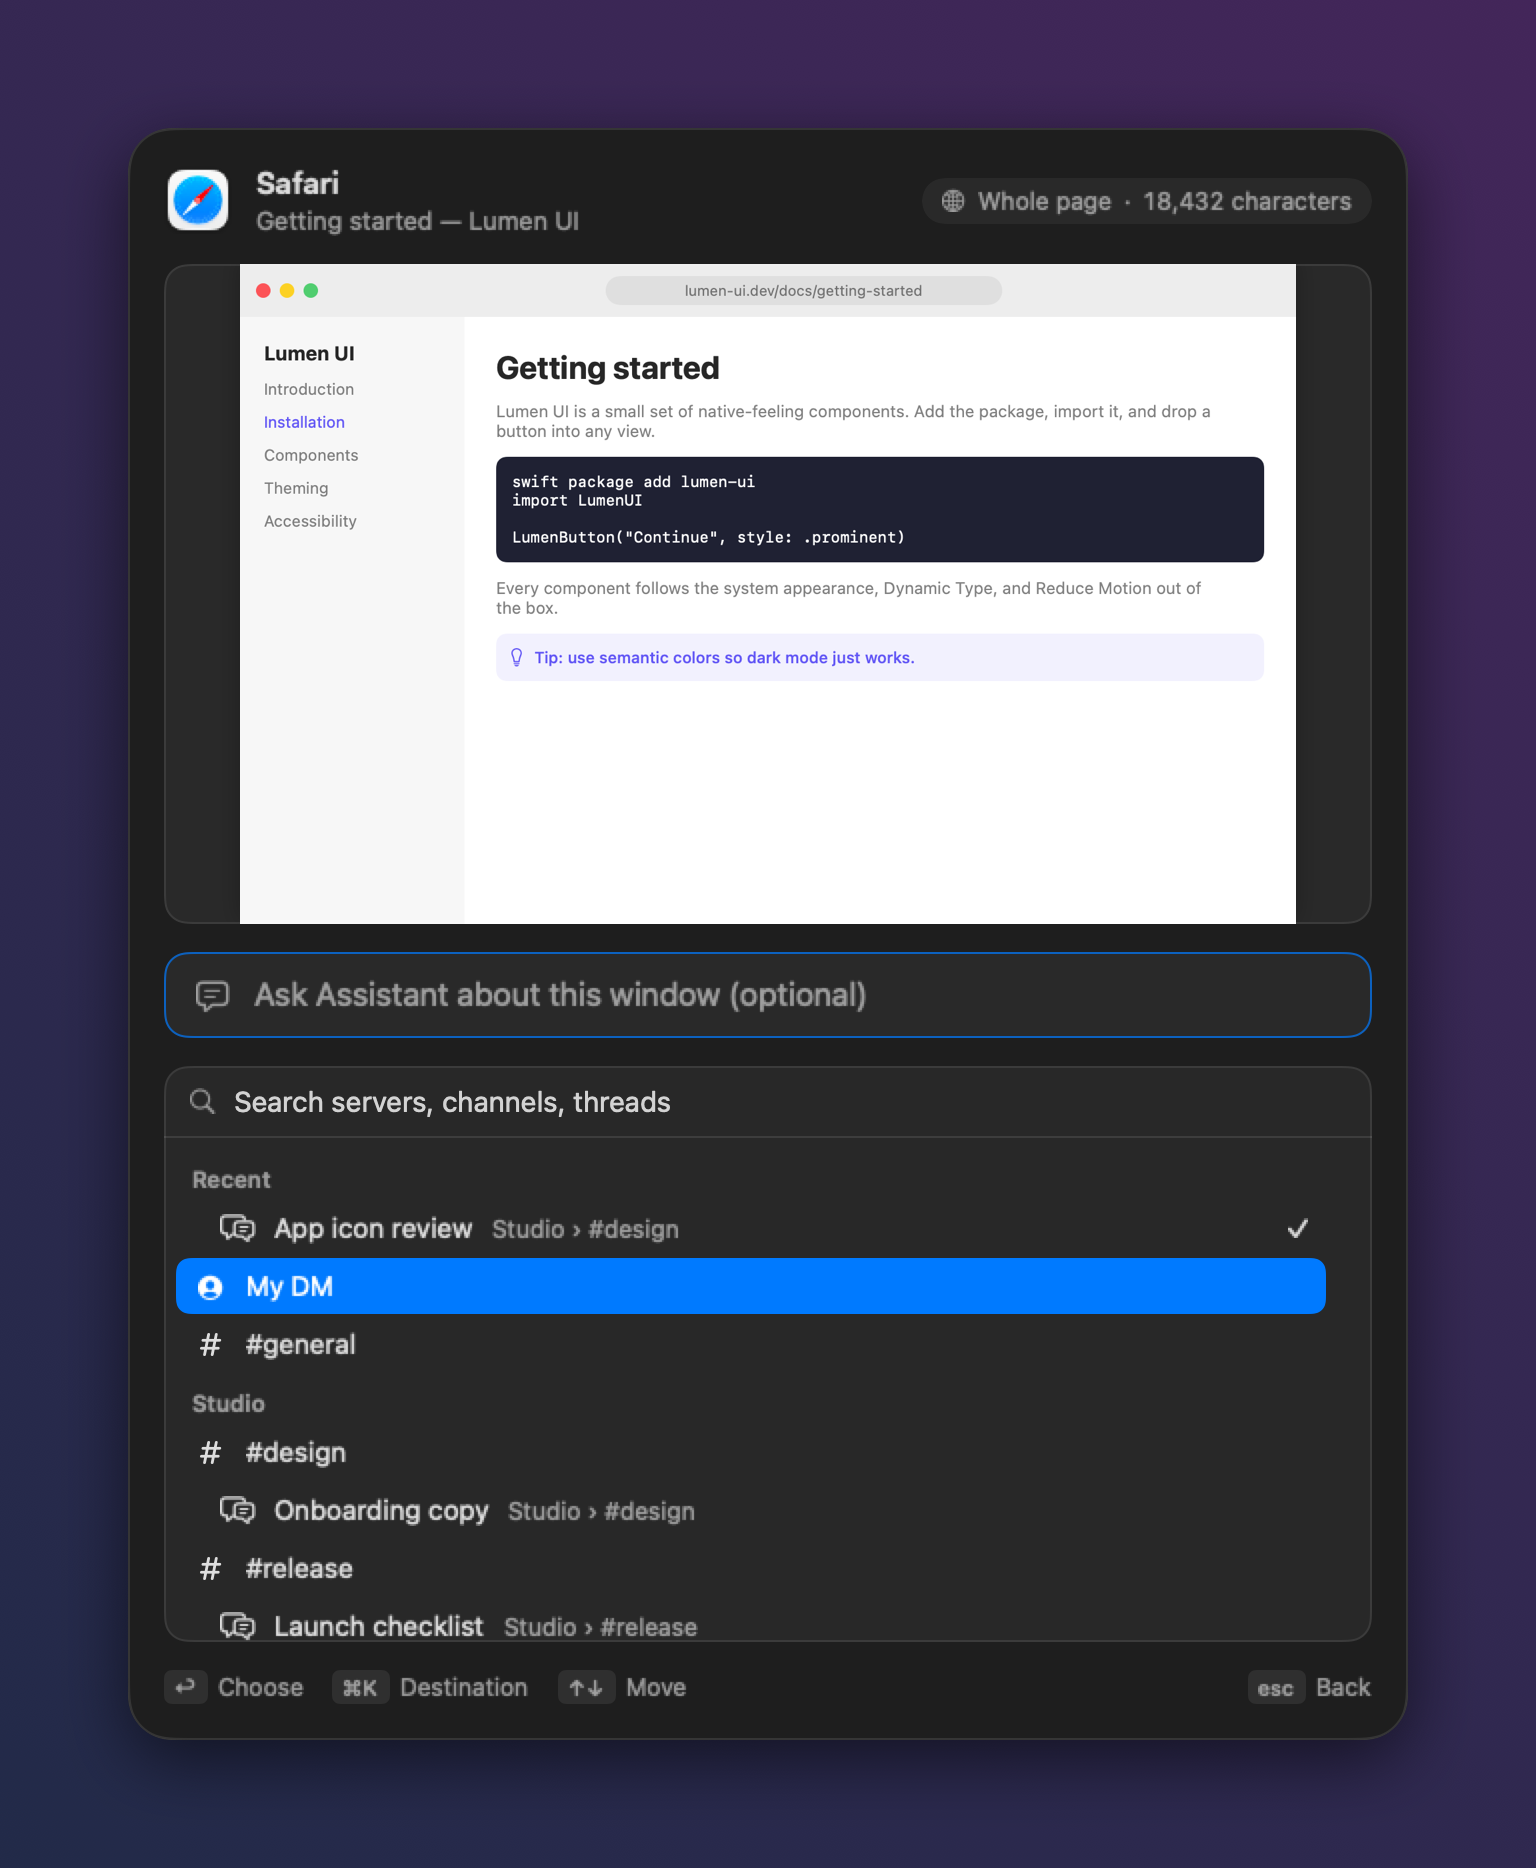
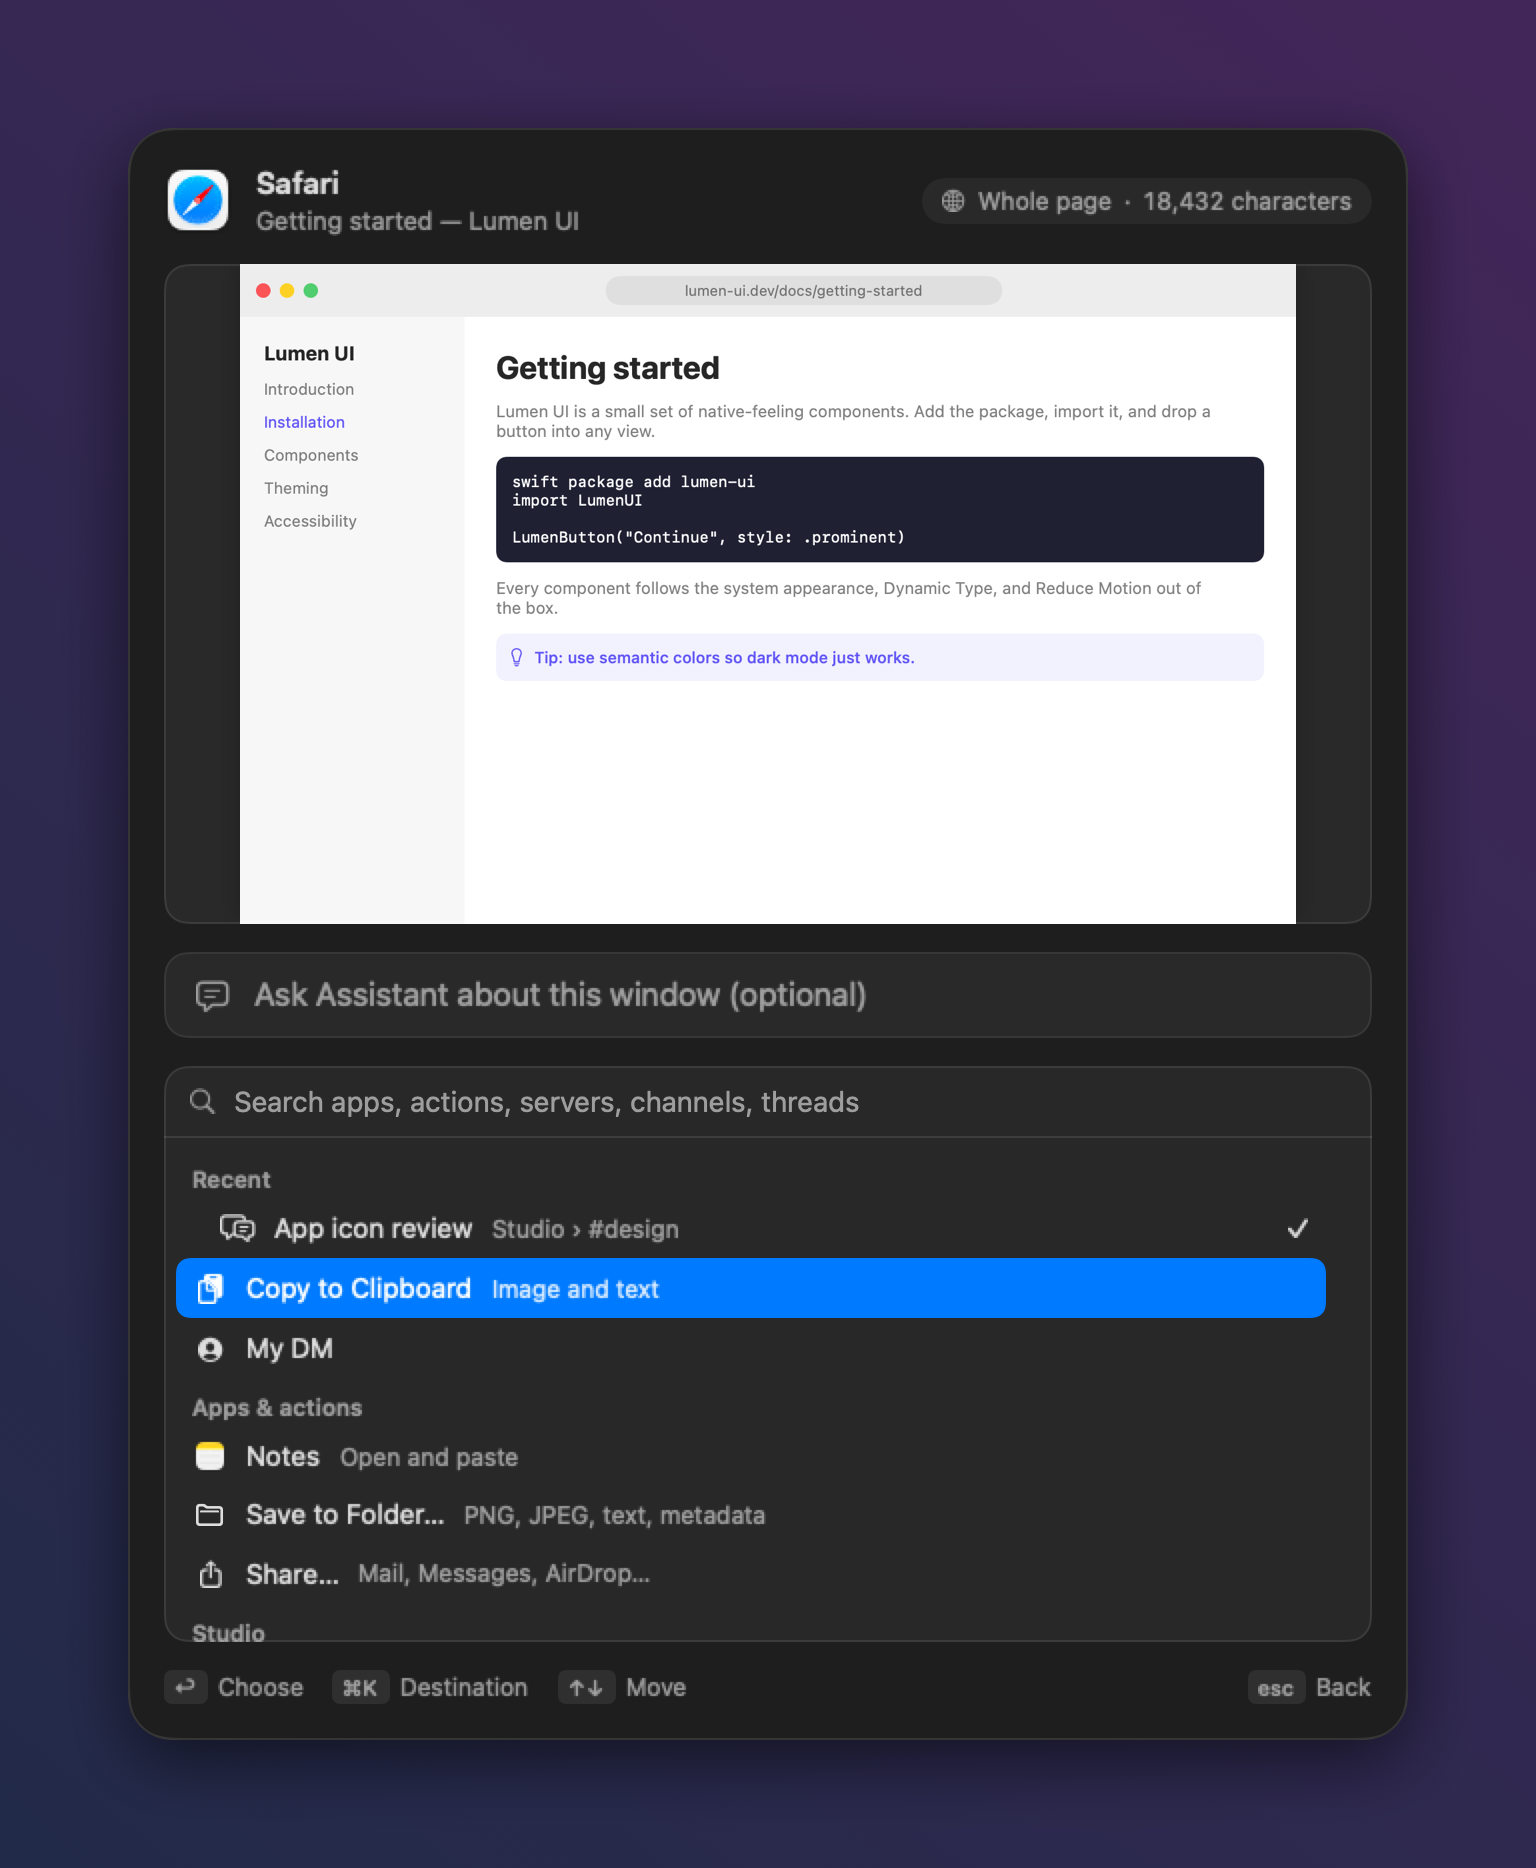
docs: credit Codex Appshots and document send targets

diff --git a/README.md b/README.md
@@ -6,8 +6,10 @@
 
 <p align="center">
   <b>Press both ⌘ keys. Your assistant sees the window you are looking at.</b><br>
-  A macOS menu bar app that sends the front window's screenshot, its full text, and one line from you to a chat assistant.
+  A macOS menu bar app that captures the front window's screenshot and full text, then sends it with one line from you to your assistant, the clipboard, a folder, or any app.
 </p>
+
+<p align="center"><i>Inspired by Codex Appshots.</i></p>
 
 <p align="center">
   <a href="README-ko.md">한국어</a> ·
@@ -18,13 +20,13 @@
 <p align="center"><img src="docs/typing-en-light.png" width="720" alt="Appshot panel, light mode"></p>
 <p align="center"><img src="docs/typing-en-dark.png" width="720" alt="Appshot panel, dark mode"></p>
 
-Inspired by the Appshots feature in the Codex Mac app, Appshot does the same for any assistant that reads files, such as a Discord bot running on your Mac.
 
 ## Features
 
 - **One shortcut.** Press both Command keys together (or any shortcut you record) and a floating panel appears over the window you were using.
 - **A large, accurate preview.** The window is captured with ScreenCaptureKit at full resolution, without its shadow, and shown at its real aspect ratio.
 - **The whole page, not just the pixels.** In Safari and Chromium browsers, Appshot reads the entire page text, its URL, and your selection. In other apps, it walks the Accessibility tree, which includes text scrolled out of view. When neither works, it falls back to on-device OCR of the screenshot. See [What Appshot reads](#what-appshot-reads).
+- **Send it anywhere.** Your Discord assistant, the clipboard, a folder, the Share menu, a custom command, or straight into ChatGPT, Claude, Codex, Notes, or Slack. See [Send targets](#send-targets).
 - **Real destinations.** Pick a Discord server, channel, or active thread by name, search it, and keep your recent choices at the top. Your DM can carry its own name, like "My DM".
 - **Keyboard first.** ↩ sends, ⌘K opens the destination list, ↑↓ moves, and esc goes back or cancels.
 - **English and Korean.** The app follows your macOS language.
@@ -32,6 +34,21 @@ Inspired by the Appshots feature in the Codex Mac app, Appshot does the same for
 
 <p align="center"><img src="docs/picker-en-light.png" width="720" alt="Destination picker, light mode"></p>
 <p align="center"><img src="docs/picker-en-dark.png" width="720" alt="Destination picker, dark mode"></p>
+
+## Send targets
+
+Pick where an appshot goes in the panel with ⌘K. Appshot remembers the last target you used.
+
+| Target | What happens |
+| --- | --- |
+| **Assistant (Discord)** | Writes the folder to your assistant's inbox and appends `EVENT APPSHOT` to its events log. The assistant replies in the server, channel, thread, or DM you picked. |
+| **Copy to Clipboard** | Puts the screenshot (as an image) and the note plus window text (as text) on the clipboard. |
+| **Save to Folder…** | Asks for a folder (remembering the last one) and copies `shot.png`, `shot.jpg`, `text.md`, and `meta.json` there. |
+| **Paste into an app** | Brings an app you added (ChatGPT, Claude, Codex, Notes, Slack, …) to the front and pastes into its focused text field. Per app, choose *Image, then text*, *Files (PNG + text.md)*, *Text only*, or *Image only*, and optionally press Return. |
+| **Share…** | Opens the macOS Share menu (Mail, Messages, AirDrop, …) with the screenshot and text. |
+| **Custom command** | Runs a shell command, opens a URL scheme, or POSTs JSON to a webhook. Placeholders: `{folder}` `{note}` `{app}` `{title}` `{url}` `{screenshot}` `{preview}` `{text}` `{channel}`. Shell values are quoted, and `APPSHOT_*` environment variables are set. |
+
+Turn targets on or off, add apps, and write commands in **Settings… › Send targets**. Example command: `open -a Preview {screenshot}`.
 
 ## Install
 
